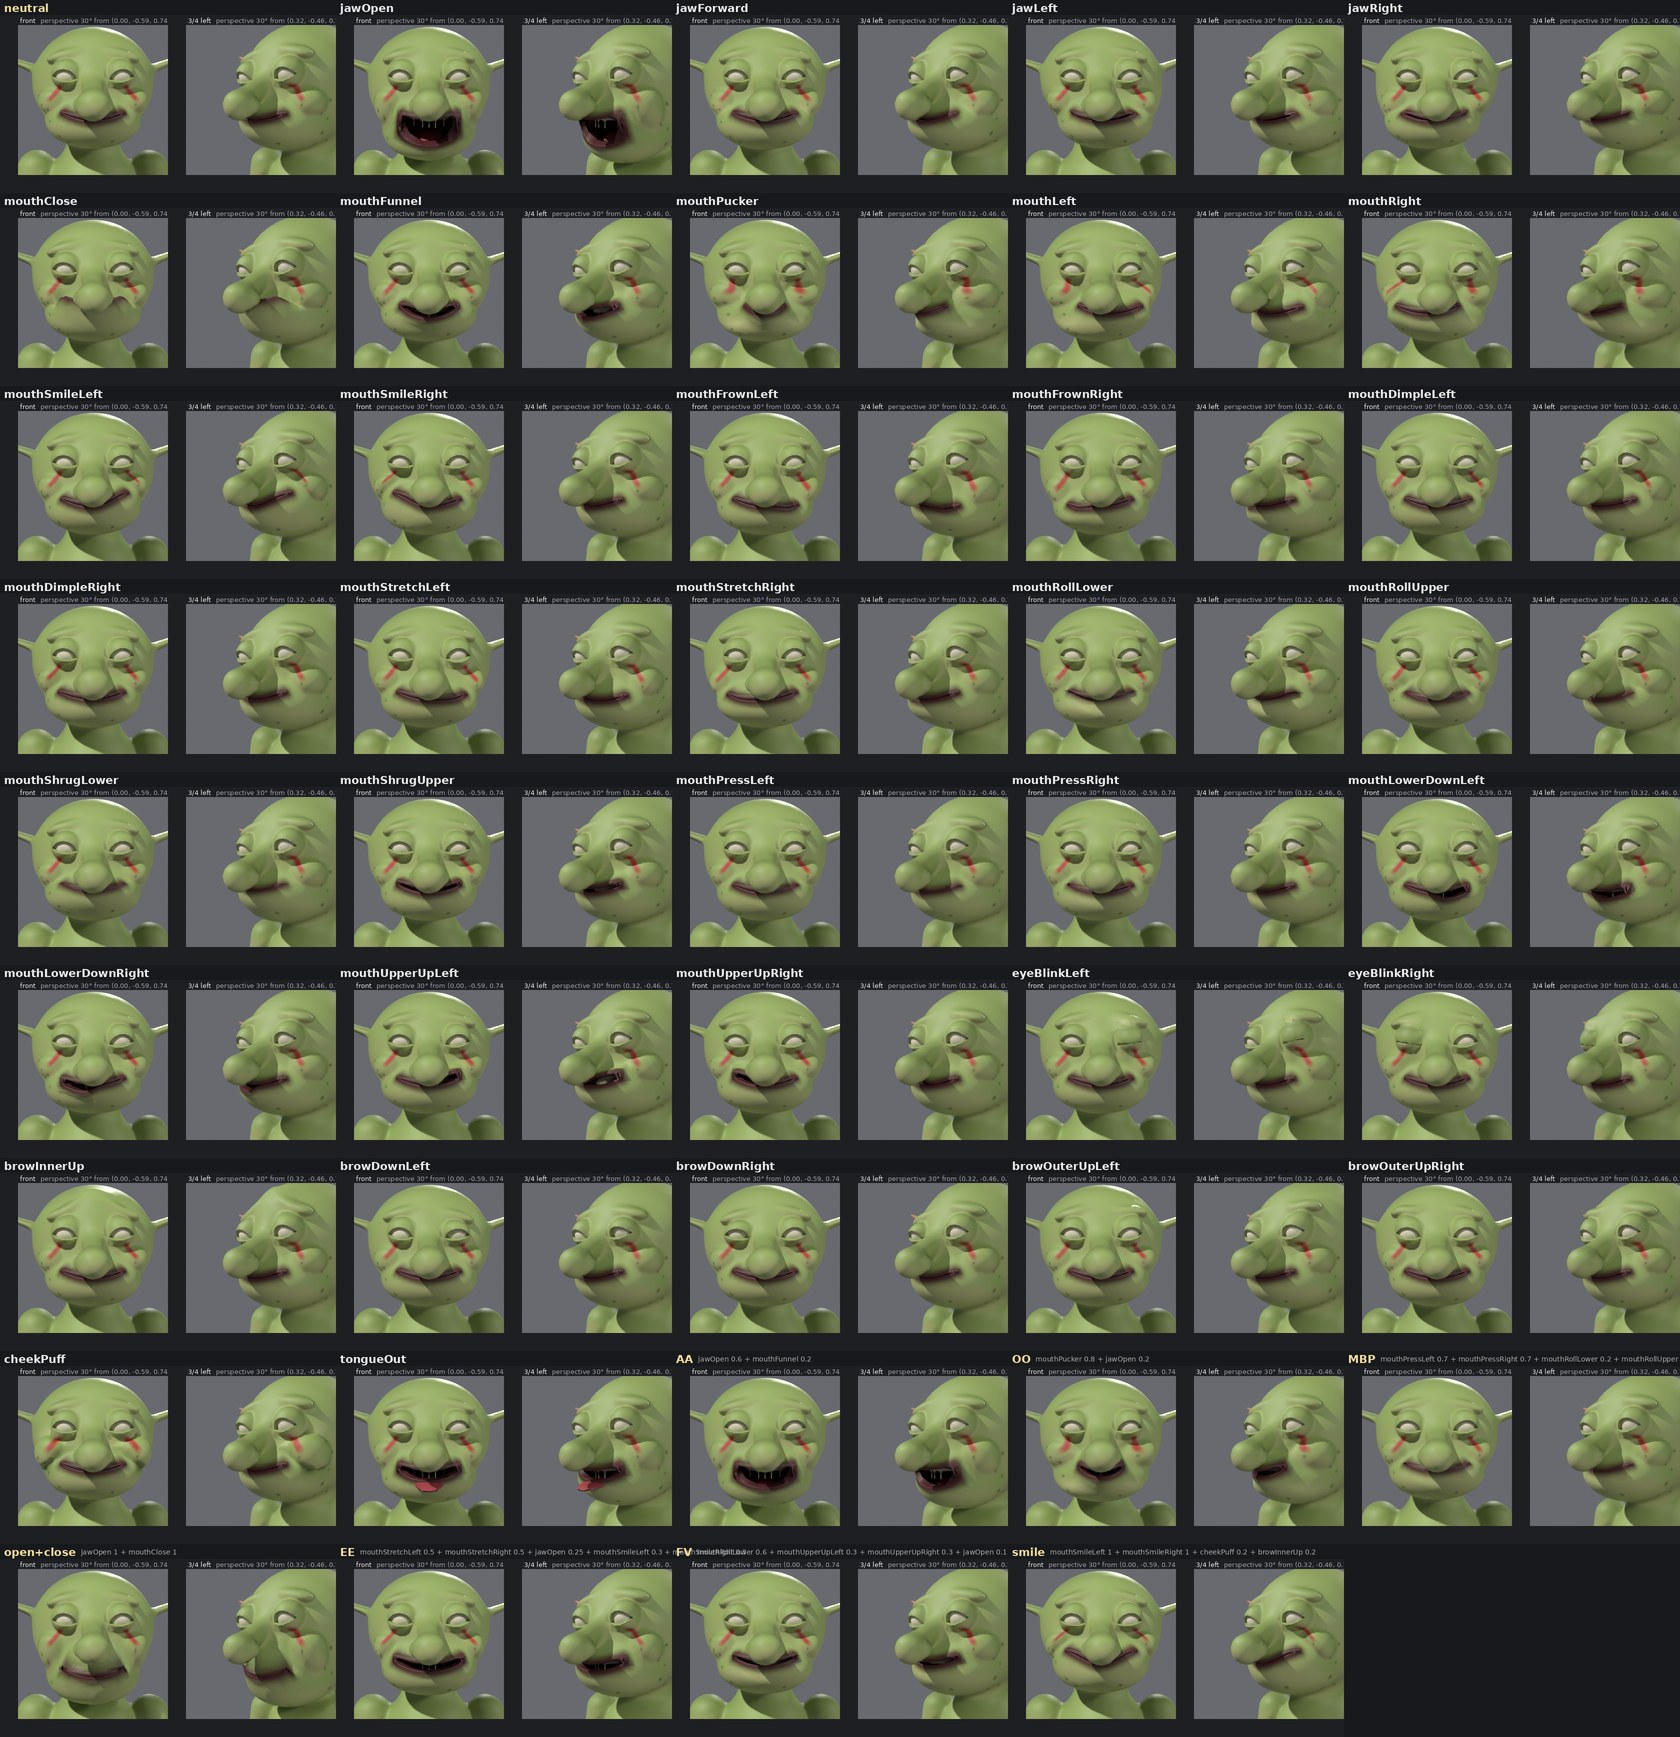
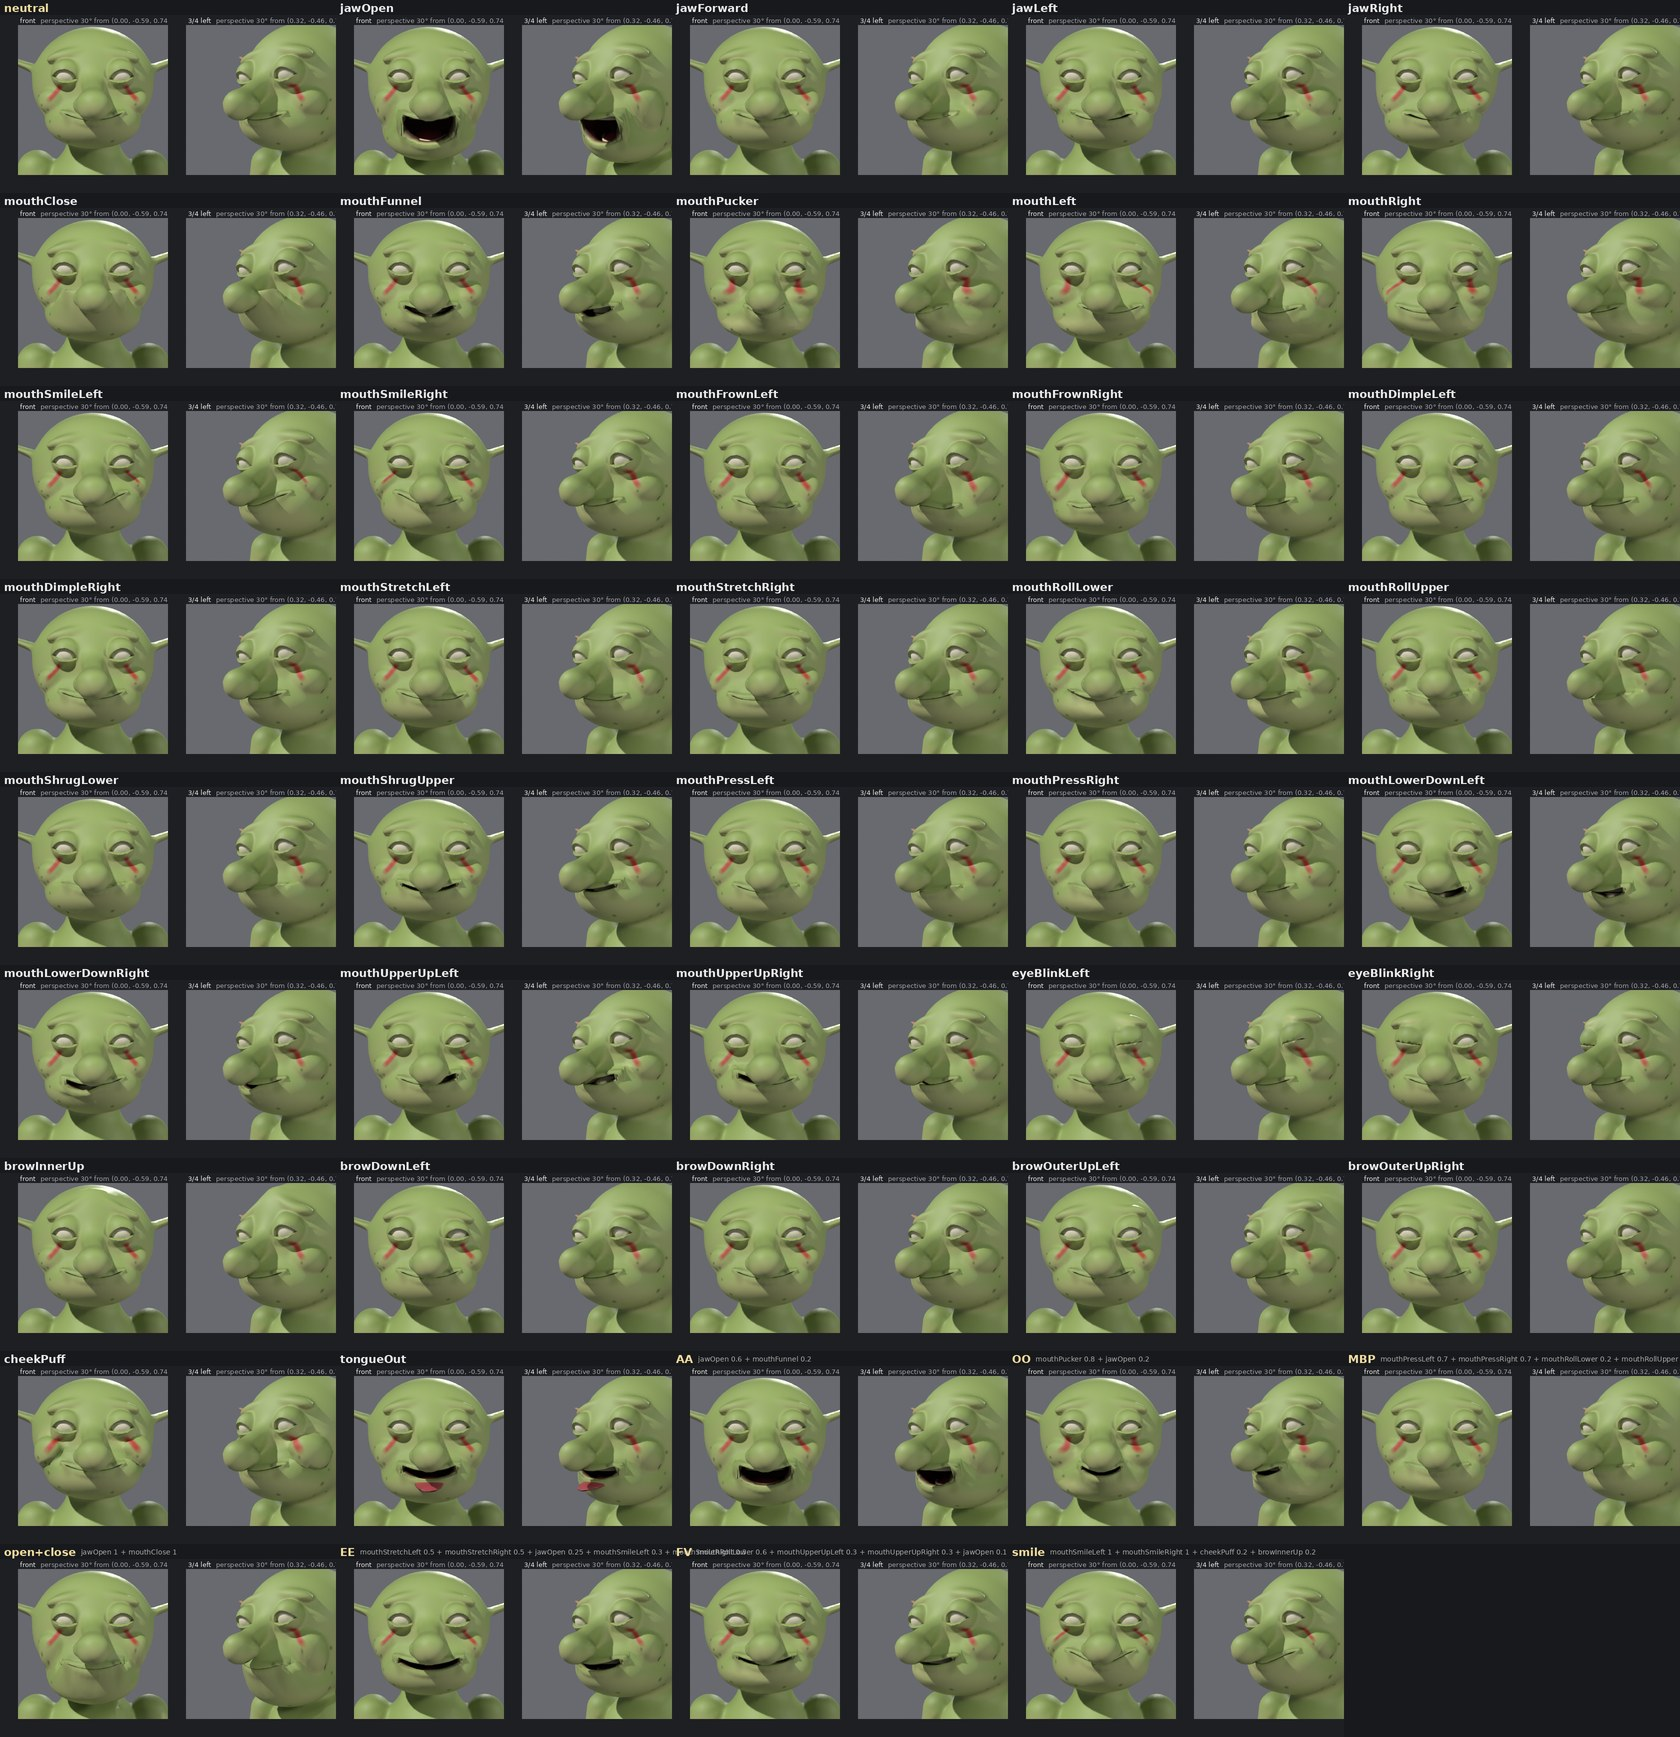
Face shapes round 2: GNM (gnm_talk) and refreshed goblin contact sheets, sheet script for whole bodies, design note + CLAUDE.md

diff --git a/examples/face_shapes_sheet.py b/examples/face_shapes_sheet.py
@@ -2,6 +2,7 @@
 face, rendered from the GLB as an engine loads it), the neutral, and a few viseme-like combinations.
 
   uv run python examples/face_shapes_sheet.py [model] [out_dir]      (defaults: goblin_talk, workspace/face_shapes)
+  uv run python examples/face_shapes_sheet.py gnm_talk                (MakeHuman body + GNM head: 40k tris, 2048)
 
 Imports examples/<model>.json if the model isn't in the workspace, exports it with face_shapes=True (rig + FBX) unless
 <out_dir>/<model>/<model>.glb exists, checks the GLB's morph targets (faceshapes.read_glb), then writes
@@ -31,20 +32,23 @@ def main(model: str = "goblin_talk", out: str = "workspace/face_shapes"):
         store.save(model, spec, "face shapes sheet")
         spec = store.load(model)
     if not glb.exists():
-        info = asset.export(model, glb.parent, triangles=15000, texture=1024, rig=True, fbx=True, face_shapes=True)
+        human = (spec.get("base") or {}).get("head") is not None  # a whole body: more triangles, finer textures
+        info = asset.export(model, glb.parent, triangles=40000 if human else 15000, texture=2048 if human else 1024,
+                            rig=True, fbx=True, face_shapes=True)
         print("\n".join(info["log"]))
     got = faceshapes.read_glb(glb)
     for mesh, g in got.items():
         moving = [n for n, t in zip(g["names"], g["targets"]) if np.abs(t["POSITION"]).max() > 0]
         print(f"{mesh}: {g['count']} vertices, {len(g['names'])} targets, {len(moving)} move it")
-    face = faceshapes.Face(spec)
+    face = faceshapes.face_of(spec)
     target = face.M + face.up * 0.35 * face.R - face.out * 0.2 * face.R
     dist = 5.0 * face.R
     q = (face.out + face.side) / np.sqrt(2)  # three quarter from the creature's left
     cams = [{"eye": (target + face.out * dist).tolist(), "target": target.tolist(), "fov": 30, "name": "front"},
             {"eye": (target + q * dist).tolist(), "target": target.tolist(), "fov": 30, "name": "3/4 left"}]
     poses = [("neutral", {})] + [(n, {n: 1.0}) for n in faceshapes.ALL] + list(faceshapes.COMBOS.items())
-    sheets = asset.preview(glb, [], size=300, samples=16, cameras=cams, poses=[p for _, p in poses])
+    sheets = asset.preview(glb, [], size=300, samples=16, cameras=cams, poses=[p for _, p in poses],
+                           lighting=(spec.get("style") or {}).get("look"))
     try:
         font = ImageFont.truetype("DejaVuSans-Bold.ttf", 22)
         small = ImageFont.truetype("DejaVuSans.ttf", 14)

diff --git a/src/hifipushie/asset.py b/src/hifipushie/asset.py
@@ -1280,7 +1280,7 @@ def _export(name: str, out_dir: Path, triangles: int = 15000, texture: int = 204
     ctx = split(spec, resolution, instancing, log, min_share=1, voxels=fine)
     for pn, v in fine.items():
         if ctx["frames"].get(pn) and ctx["frames"][pn][1] <= v:
-            log.append(f"{pn}: meshed at {ctx['frames'][pn][1] * 1000:.2f} mm for the face shapes (the lips' slit)")
+            log.append(f"{pn}: meshed at {ctx['frames'][pn][1] * 1000:.2f} mm for the face shapes (the lips' slit, teeth)")
     origin = ctx["origin"]
     tm = time.time()
     high = mesh_parts(ctx, out_dir / "high.npz")

diff --git a/spikes/face_shapes/README.md b/spikes/face_shapes/README.md
@@ -89,6 +89,61 @@ Looks wrong / limits:
   "the nose and eyeballs stay".
 - NORMAL targets only (no TANGENT deltas); Blender's importer ignores both (recomputes), engines may use them.
 
+## Round 2 (2026-10-01): GNM heads, goblin fixes
+
+### GNM head on a MakeHuman body (`examples/gnm_talk.json`, sheet `gnm_talk_shapes.jpg`)
+`examples/disc_golfer_mh.json` with the clothes, bag, disc, hair locks and the template-wrap topology left out (the
+golfer's head, style sheet, skin/lip/brow/eye paint and nose strokes kept); `base.head.mouth_gap` 0.003 and
+`base.head.interior` {teeth, tongue}. Left out because: hair locks are curves (no face shapes, minutes of export),
+the shirt/collar are far from the face, and the wrap (`parts.body.topology "wrap"`) zips the lips into one seam
+(`_zip_mouth`), which can't open. Exports with decimation instead (40k triangles, 2048 atlas, ~25 min: the body is
+meshed at 1.4 mm to keep the slit).
+
+**Approach: GNM's expression basis, not the landmark warp.** GNM's 383 expression components are learned from scans:
+a smile bunches the cheek and deepens the nasolabial fold, an open jaw stretches the chin and cheeks the way faces
+do; a hand-made warp gets none of that. So each ARKit shape is a set of 68-landmark moves (`GnmFace._gnm_moves`:
+in mouth widths, GNM frame; Left = the head's left landmarks, mirrored for Right) solved as the least change of
+the regional components (lower face for mouth/jaw, eye regions for lids/brows) holding every other landmark (weight
+0.5): the same ridge solve as `base.pose_expression`. jawOpen = the jaw line and lower lip turned 14 deg about the
+ears' landmarks (0, 16); mouthClose = against it, the lower lip back 80% of the way, the upper lip the rest;
+cheekPuff (no landmarks there) = a direct normal push on GNM's cheek regions, feathered. The GNM offsets are carried
+onto the export: eye-scaling magnification, narrowing, placement (scale, turn) -> the head skin's vertices before
+subdivision -> each low-poly vertex by inverse distance over the 6 nearest; between the lips only from its own
+lip's vertices (mixed, the parted lips tore the slit walls into shards). The neutral's closed lips are a basis solve
+too (inner lips half the gap each).
+
+**Mouth interior.** GNM has its own mouth sock, teeth, gums and tongue, but the head's style moves only the skin
+(the golfer's lips are pushed 6 mm back), which left GNM's teeth standing in front of the lips. So the interior is
+the face kit's (`kits._interior`: slit, bag, teeth, tongue) placed from the head's lip landmarks
+(`base.mouth_lips` / `base.mouth_interior`, replacing the `mouth_fill` blob). What isn't near the skin (the bag's
+deep walls, teeth, tongue) takes the jaw's rigid motion, Procrustes-fitted to the jaw line's carried landmarks, for
+the jaw shapes only.
+
+**Blinks** come from the basis (upper lid landmarks 80% to the lower, lower 20% up), then anything that would sink
+into the eyeball is pushed out to its surface + 0.6 mm.
+
+### Goblin fixes
+- Lid facets: the export decimates with the lids (and lips) magnified 2x (`focuswarp.py`, `Face.tri_focus`): the
+  quadric error counts more there, triangles stay. Blender's Decimate vertex group was tried first and is useless
+  for grading: ANY weight protects a vertex outright (factor 0.01 kept all 6569 weighted vertices of a test mesh
+  and ignored the ratio; the first try gave the face 97% of the goblin's triangles).
+- jawOpen + mouthClose: the lower lip now closes 80% of the gap (`CLOSE_LOWER`): no upper-lip curtain.
+- Corner spikes/flap: the slit ran out to 0.96 of the half width and in front of the lips its full height, notching
+  the cheek at the corner; it now stops at 0.92 (`interior.end`) and its front tapers.
+- Dark seam: the example's mouth-interior paint was `near` the slit too (the lips' inner faces); now the bag only.
+
+### Round 2 results (sheets `goblin_talk_shapes.jpg`, `gnm_talk_shapes.jpg` here)
+- GNM head: neutral closed (thin seam), jawOpen opens onto bag, lower teeth and tongue; tongueOut, AA/OO/EE/FV read;
+  smile/frown/dimple/stretch/press/up/down are subtle but correct-sided; brows and cheekPuff read. Exports: GLB 0
+  errors/0 warnings (Khronos), FBX shape keys body/teeth/tongue 36 each. ~25 min per export (the body at 1.4 mm).
+- Still wrong: GNM blink leaves a small dark gap at the inner corner and flat-shaded triangles on the outer lid (the
+  low poly's lid is coarse even magnified; the texture slides with the lid); upper teeth barely show (the strip sits
+  behind the upper lip: a style call); mouthClose alone bulges the lips (as ARKit's does: it is meant with jawOpen);
+  GNM mouth shapes' amounts are first guesses (smile ~4.5 mm corner lift); the goblin's upper teeth are hidden in
+  the gum (only the lower row shows at jawOpen).
+- Outputs (git-ignored workspace, written by `examples/face_shapes_sheet.py <model>`):
+  `workspace/face_shapes/<model>/<model>.glb` (+ `.fbx`, `.json`, maps) for goblin_talk and gnm_talk.
+
 ## Open questions for the director
 - Art style of the mouth interior (bag colour, teeth as one strip vs individual teeth, tongue size) and the default
   slit/bag sizes. Conservative defaults taken.

diff --git a/CLAUDE.md b/CLAUDE.md
@@ -225,6 +225,15 @@ representations it reasons well in (skeletons, named parts, numbers) and feedbac
   (open) position, moves applied at the neutral. The nose and eyeballs never move. Rolls are moves (a turn tore);
   blink skin follows the lid's outer sphere (turning far skin about the eye swung a lever). Sheet:
   `examples/face_shapes_sheet.py` (`asset.preview(poses=)`); `tests/test_face_shapes.py`.
+  Round 2: GNM heads (`GnmFace`, `examples/gnm_talk.json` = the golfer's MakeHuman body + GNM head without clothes,
+  hair or the wrap topology, which zips the lips): each shape = 68-landmark moves solved in GNM's expression basis
+  (as `base.pose_expression`), carried onto the export (eye scaling, narrowing, placement, then Catmull-Clark like
+  the skin, all shapes side by side; inverse distance over the 6 nearest head vertices, between the lips only its
+  own lip's, by GNM's lip groups: by height, the inner rolls mixed and tore the slit walls); interior = the kit's,
+  placed from the lip landmarks (`base.mouth_interior`; GNM's own teeth stood in front of the style-pushed lips);
+  bag/teeth/tongue by the jaw's Procrustes motion for jaw shapes. Needs `base.head.interior` + `mouth_gap` >= 0.002.
+  Export triangle focus (`focuswarp.py`): the high mesh is magnified 2x round the lids/lips before decimation and put
+  back after it in Blender; Blender's Decimate vertex group protects ANY weighted vertex outright (useless).
 - `rig.py`: the export rig, a separate step over the modelling skeleton (the user, 2026-09-25: humanoids must be
   Mixamo-compatible and Unity/Unreal-retargetable, clean bone chains for non-humanoids too; spec bones stay for
   modelling). `humanoid` fits Mixamo's skeleton (mixamorig:Hips, Spine/1/2, Neck, Head, clavicles, arms, hand-kit
